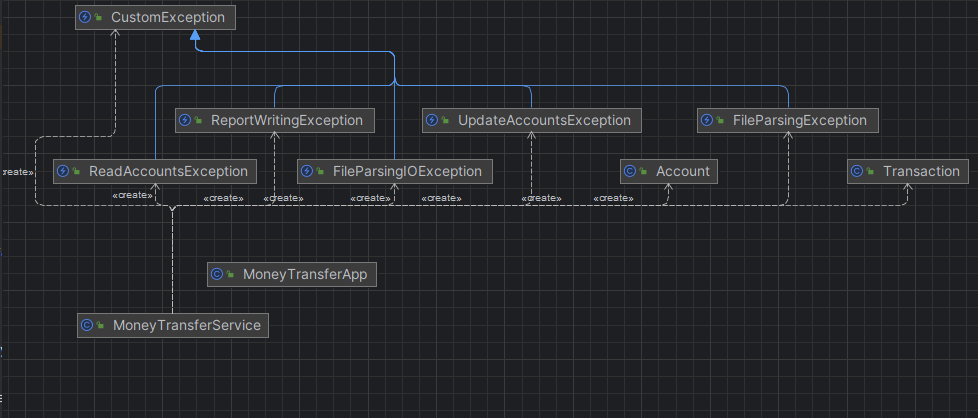
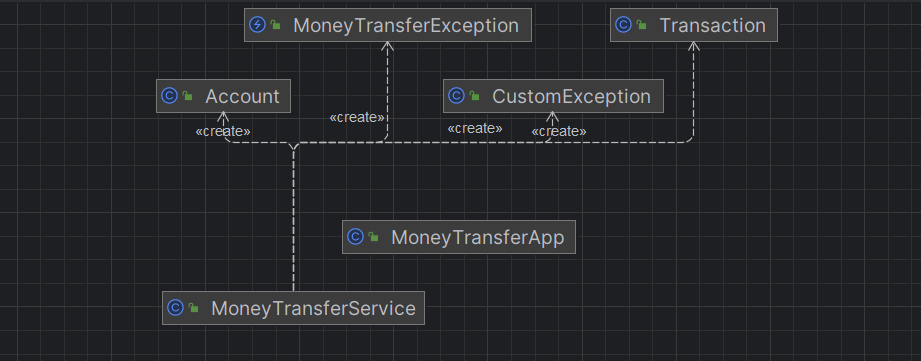
add constant exception

diff --git a/src/service/MoneyTransferService.java b/src/service/MoneyTransferService.java
@@ -20,7 +20,7 @@ public class MoneyTransferService {
 
     private static final String BANKS_ACCOUNTS_FILE = "src/banksAccounts/accounts.txt";
 
-    public static Map<String, Integer> readBanksAccounts() throws CustomException {
+    public static Map<String, Integer> readBanksAccounts() throws MoneyTransferException {
         Map<String, Integer> banksAccounts = new HashMap<>();
         try (Stream<String> lines = Files.lines(Paths.get(BANKS_ACCOUNTS_FILE))) {
             lines.forEach(line -> {
@@ -30,22 +30,22 @@ public class MoneyTransferService {
                 }
             });
         } catch (IOException e) {
-            throw new ReadAccountsException("Ошибка при чтении файла banksAccounts", e);
+            throw new MoneyTransferException(MoneyTransferException.READ_ACCOUNTS_ERROR_MESSAGE, e);
         }
         return banksAccounts;
     }
 
-    public static void updateBanksAccounts(Map<String, Integer> banksAccounts) throws CustomException {
+    public static void updateBanksAccounts(Map<String, Integer> banksAccounts) throws MoneyTransferException {
         try {
             Files.write(Paths.get(BANKS_ACCOUNTS_FILE), () -> banksAccounts.entrySet().stream().<CharSequence>map(entry -> entry.getKey() + " " + entry.getValue()).iterator());
         } catch (IOException e) {
-            throw new UpdateAccountsException("Ошибка при обновлении файла banksAccounts", e);
+            throw new MoneyTransferException(MoneyTransferException.UPDATE_ACCOUNTS_ERROR_MESSAGE, e);
         }
     }
 
     private static final String REPORT_FILE = "src/report/report.txt";
 
-    public static List<Transaction> parseFilesInDirectory(String directoryPath) throws CustomException {
+    public static List<Transaction> parseFilesInDirectory(String directoryPath) throws MoneyTransferException {
         List<Transaction> transactions = new ArrayList<>();
         try (DirectoryStream<Path> directoryStream = Files.newDirectoryStream(Paths.get(directoryPath), "*.txt")) {
             for (Path filePath : directoryStream) {
@@ -53,12 +53,12 @@ public class MoneyTransferService {
                 transactions.addAll(fileTransactions);
             }
         } catch (IOException e) {
-            throw new FileParsingException("Ошибка при парсинге файлов в директории", e);
+            throw new MoneyTransferException(MoneyTransferException.FILE_PARSING_ERROR_MESSAGE, e);
         }
         return transactions;
     }
 
-    private static List<Transaction> parseFile(Path filePath) throws CustomException {
+    private static List<Transaction> parseFile(Path filePath) throws MoneyTransferException {
         List<Transaction> transactions = new ArrayList<>();
         try (BufferedReader reader = Files.newBufferedReader(filePath)) {
             String fileName = filePath.getFileName().toString();
@@ -66,11 +66,13 @@ public class MoneyTransferService {
             if (accounts.isEmpty()) {
                 transactions.add(new Transaction(fileName, "ошибка в формате транзакции", new Date()));
             } else {
-                processAccounts(fileName, accounts);
+                processAccounts(accounts);
                 transactions.add(new Transaction(fileName, "успешно", new Date()));
             }
         } catch (IOException e) {
-            throw new FileParsingIOException("Ошибка при парсинге файла " + filePath, e);
+            throw new MoneyTransferException(MoneyTransferException.FILE_PARSING_IO_ERROR_MESSAGE + filePath, e);
+        } catch (CustomException e) {
+            throw new RuntimeException(e);
         }
         return transactions;
     }
@@ -84,7 +86,6 @@ public class MoneyTransferService {
                 String from = parts[0];
                 String to = parts[1];
                 int amount;
-
                 if (isValidAccountNumber(from) || isValidAccountNumber(to)) {
                     throw new CustomException("Некорректный формат номера счета в строке: " + line);
                 }
@@ -99,7 +100,7 @@ public class MoneyTransferService {
         return accounts;
     }
 
-    private static void processAccounts(String fileName, List<Account> accounts) throws CustomException {
+    private static void processAccounts(List<Account> accounts) throws CustomException, MoneyTransferException {
         Map<String, Integer> banksAccounts = readBanksAccounts();
         for (Account account : accounts) {
             String from = account.getFrom();
@@ -121,13 +122,13 @@ public class MoneyTransferService {
         updateBanksAccounts(banksAccounts);
     }
 
-    public static void writeReportToFile(List<Transaction> transactions) throws CustomException {
+    public static void writeReportToFile(List<Transaction> transactions) throws MoneyTransferException {
         try (PrintWriter writer = new PrintWriter(new FileWriter(REPORT_FILE))) {
             for (Transaction transaction : transactions) {
                 writer.println(transaction);
             }
         } catch (IOException e) {
-            throw new ReportWritingException("Ошибка при записи отчета в файл " + REPORT_FILE, e);
+            throw new MoneyTransferException(MoneyTransferException.REPORT_WRITING_ERROR_MESSAGE + REPORT_FILE, e);
         }
     }
 

diff --git a/src/exception/MoneyTransferException.java b/src/exception/MoneyTransferException.java
@@ -1,0 +1,15 @@
+package exception;
+
+import java.io.IOException;
+
+public class MoneyTransferException extends IOException {
+    public static final String READ_ACCOUNTS_ERROR_MESSAGE = "Ошибка при чтении файла banksAccounts";
+    public static final String UPDATE_ACCOUNTS_ERROR_MESSAGE = "Ошибка при обновлении файла banksAccounts";
+    public static final String FILE_PARSING_ERROR_MESSAGE = "Ошибка при парсинге файлов в директории";
+    public static final String FILE_PARSING_IO_ERROR_MESSAGE = "Ошибка при парсинге файла ";
+    public static final String REPORT_WRITING_ERROR_MESSAGE = "Ошибка при записи отчета в файл ";
+
+    public MoneyTransferException(String message, IOException e) {
+        super(message, e);
+    }
+}

diff --git a/src/app/MoneyTransferApp.java b/src/app/MoneyTransferApp.java
@@ -1,6 +1,7 @@
 package app;
 
 import exception.CustomException;
+import exception.MoneyTransferException;
 import model.Transaction;
 import service.MoneyTransferService;
 
@@ -43,6 +44,8 @@ public class MoneyTransferApp {
             } while (choice != 3);
         } catch (CustomException e) {
             System.err.println("Ошибка: " + e.getMessage());
+        } catch (MoneyTransferException e) {
+            throw new RuntimeException(e);
         }
     }
 }
